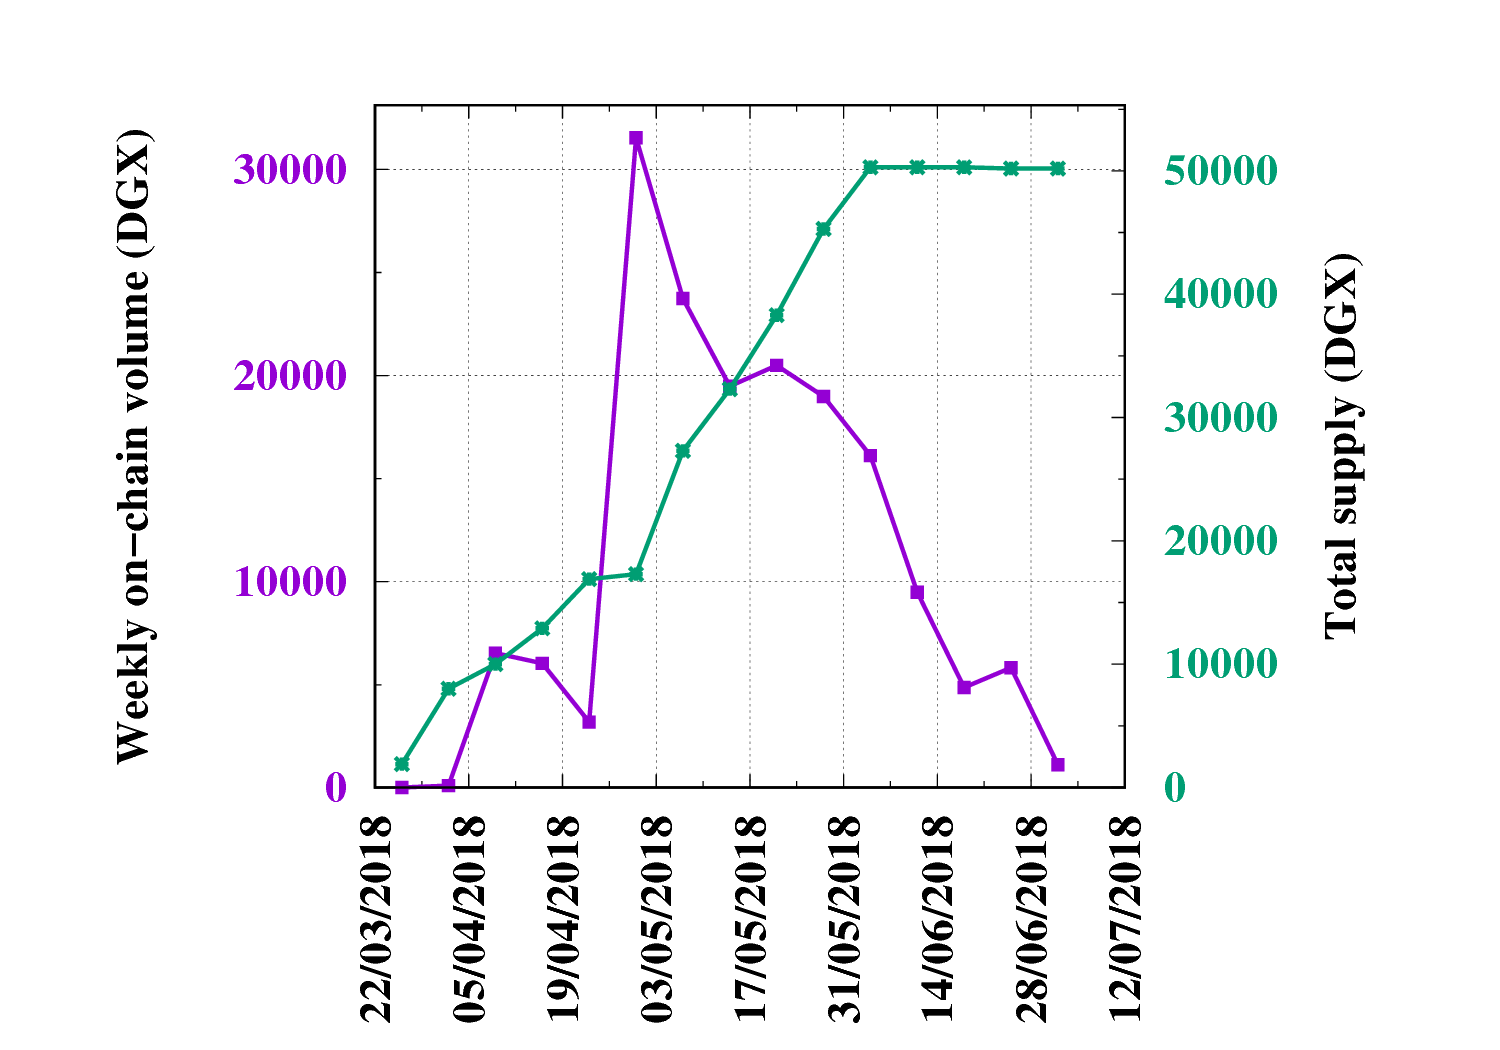
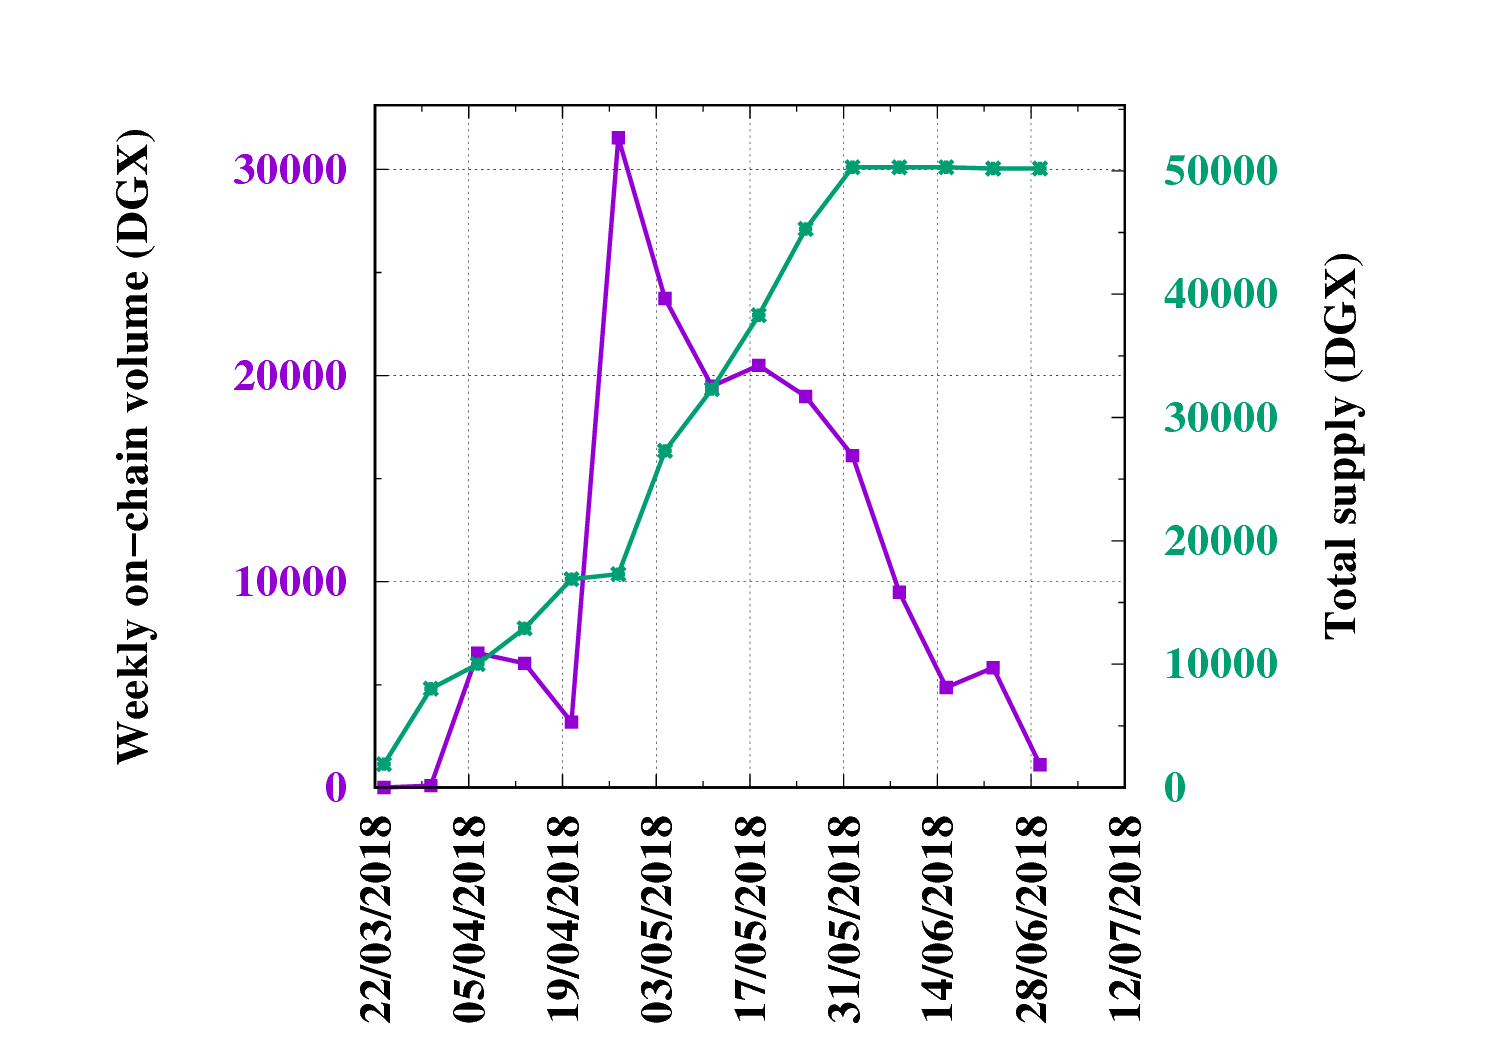
.

Changed region(s): [[0.2453, 0.1219, 0.552, 0.7619], [0.552, 0.3962, 0.7053, 0.7314], [0.5213, 0.1524, 0.7053, 0.2743]]

diff --git a/dgxvolume_scripts/weekly_volume.py b/dgxvolume_scripts/weekly_volume.py
@@ -18,10 +18,6 @@ length = len(amount)
 print("This page updates hourly using data from the [DGX contract address (etherscan)](https://etherscan.io/token/0x4f3afec4e5a3f2a6a1a411def7d7dfe50ee057bf). Last updated:")
 print(now.strftime("%Y-%m-%d %H:%M") + ' UTC\n')
 
-# Begin weekly table
-print("### Weekly volume table\n")
-print("Week Starting | Volume (DGX)")
-print("--- | ---")
 
 # loop over whole list of txs
 hour = 3600
@@ -30,9 +26,19 @@ week = 7*day
 quarter = 90*day
 
 # seconds from beginning
-d0 = datetime.datetime(2018, 3, 26, 0, 0)
+d0 = datetime.datetime(2018, 3, 23, 8, 58)
 delta = now - d0
 ts_now = delta.total_seconds()
+t0 = amount[0]['timeStamp']  # time (s) of first tx 
+tlast = amount[length-1]['timeStamp']  # time (s) of first tx 
+a = int(ts_now) - (int(tlast) - int(t0))
+with open('tsince_lasttx.txt','w+') as f:
+  f.write(str(a))
+
+# Begin weekly table
+print("### Weekly volume table\n")
+print("Week Starting | Volume (DGX)")
+print("--- | ---")
 
 wv = 0
 tv = 0
@@ -41,40 +47,38 @@ mintv = 0
 t1 = 0
 cw = 0
 tstore1 = 0
-t0 = amount[0]['timeStamp']  # time (s) of first tx 
-with open('quarterly.dat','w+') as f2:
-  with open('weekly.dat','w+') as f:
-    for i in range(0,length):
-      x = int(amount[i]['value'])  # volume for ith tx
-      if amount[i]['from'] == '0x0000000000000000000000000000000000000000':  # if from 0x0 (minting)
-        mintv = mintv + x  # DGX minted 
-      elif amount[i]['to'] == '0x0000000000000000000000000000000000000000':  # if to 0x0 (recasting)
-        wv = wv - x  # these are recasting txs
-        mintv = mintv - x  
-        ts = amount[i]['timeStamp']  # read current timeStamp (s)
-        tc = int(ts) - int(t0)  # time (s) since first tx
-        t1 = tc - tstore1  # time (s) since last reset
-      else:
-        ts = amount[i]['timeStamp']  # read current timeStamp (s)
-        wv = wv + x  # accumulate tx amounts 
-        tv = tv + x  # accumulate tx amounts 
-        tc = int(ts) - int(t0)  # time (s) since first tx
-        t1 = tc - tstore1  # time (s) since last reset
-      if t1 >= week:
-        cw += 1 # count
-        y = round(float(wv)/1e9,2)
-        print(str(datew.strftime("%d/%m/%Y")) + "|" + str(y))
-        y2 = round(float(mintv)/1e9,2)
-        f.write(str(datew) + ' ' + str(y) + ' ' + str(y2) + '\n')  # write week number, volume to file
-        datew = datew + datetime.timedelta(days=7)
-        tstore1 = tc
-        t1 = 0
-        wv = 0
-    wv = round(float(wv)/1e9,2)
-    y2 = round(float(mintv)/1e9,2)
-    f.write(str(datew) + ' ' + str(wv) + ' ' + str(y2) + '\n')  # write week number, volume to file
-    print(str(datew.strftime("%d/%m/%Y")) + "|" + str(wv))
-    tv = round(float(tv)/1e9,2)
+with open('weekly.dat','w+') as f:
+  for i in range(0,length):
+    x = int(amount[i]['value'])  # volume for ith tx
+    if amount[i]['from'] == '0x0000000000000000000000000000000000000000':  # if from 0x0 (minting)
+      mintv = mintv + x  # DGX minted 
+    elif amount[i]['to'] == '0x0000000000000000000000000000000000000000':  # if to 0x0 (recasting)
+      wv = wv - x  # these are recasting txs
+      mintv = mintv - x  
+      ts = amount[i]['timeStamp']  # read current timeStamp (s)
+      tc = int(ts) - int(t0)  # time (s) since first tx
+      t1 = tc - tstore1  # time (s) since last reset
+    else:
+      ts = amount[i]['timeStamp']  # read current timeStamp (s)
+      wv = wv + x  # accumulate tx amounts 
+      tv = tv + x  # accumulate tx amounts 
+      tc = int(ts) - int(t0)  # time (s) since first tx
+      t1 = tc - tstore1  # time (s) since last reset
+    if t1 >= week:
+      cw += 1 # count
+      y = round(float(wv)/1e9,2)
+      print(str(datew.strftime("%d/%m/%Y")) + "|" + str(y))
+      y2 = round(float(mintv)/1e9,2)
+      f.write(str(datew) + ' ' + str(y) + ' ' + str(y2) + '\n')  # write week number, volume to file
+      datew = datew + datetime.timedelta(days=7)
+      tstore1 = tc
+      t1 = 0
+      wv = 0
+  wv = round(float(wv)/1e9,2)
+  y2 = round(float(mintv)/1e9,2)
+  f.write(str(datew) + ' ' + str(wv) + ' ' + str(y2) + '\n')  # write week number, volume to file
+  print(str(datew.strftime("%d/%m/%Y")) + "|" + str(wv))
+  tv = round(float(tv)/1e9,2)
 
 # All-time volume table
 #print("Current Quarter |" + str(dateq.strftime("%d/%m/%Y")) + "|" + str(qv) )

diff --git a/dgxvolume_scripts/weekly_volume_blocks.py b/dgxvolume_scripts/weekly_volume_blocks.py
@@ -24,7 +24,8 @@ print("Week Starting | Volume (DGX)")
 print("--- | ---")
 
 # loop over whole list of txs
-hour = 3600
+tblock = 14.4
+hour = 3600/tblock
 day  = 24*hour
 week = 7*day
 quarter = 90*day
@@ -38,10 +39,10 @@ wv = 0
 tv = 0
 datew = d0
 mintv = 0
-t1 = 0
+b1 = 0
 cw = 0
-tstore1 = 0
-t0 = amount[0]['timeStamp']  # time (s) of first tx 
+bstore1 = 0
+b0 = amount[0]['blockNumber']  # block number of first tx 
 with open('quarterly.dat','w+') as f2:
   with open('weekly.dat','w+') as f:
     for i in range(0,length):
@@ -51,24 +52,24 @@ with open('quarterly.dat','w+') as f2:
       elif amount[i]['to'] == '0x0000000000000000000000000000000000000000':  # if to 0x0 (recasting)
         wv = wv - x  # these are recasting txs
         mintv = mintv - x  
-        ts = amount[i]['timeStamp']  # read current timeStamp (s)
-        tc = int(ts) - int(t0)  # time (s) since first tx
-        t1 = tc - tstore1  # time (s) since last reset
+        bs = amount[i]['blockNumber']  # read current block number
+        bc = int(bs) - int(b0)  # blocks since first tx
+        b1 = bc - bstore1  # blocks since last reset
       else:
-        ts = amount[i]['timeStamp']  # read current timeStamp (s)
+        bs = amount[i]['blockNumber']  # read current block number
         wv = wv + x  # accumulate tx amounts 
         tv = tv + x  # accumulate tx amounts 
-        tc = int(ts) - int(t0)  # time (s) since first tx
-        t1 = tc - tstore1  # time (s) since last reset
-      if t1 >= week:
+        bc = int(bs) - int(b0)  # blocks since first tx
+        b1 = bc - bstore1  # blocks since last reset
+      if b1 >= week:
         cw += 1 # count
         y = round(float(wv)/1e9,2)
         print(str(datew.strftime("%d/%m/%Y")) + "|" + str(y))
         y2 = round(float(mintv)/1e9,2)
         f.write(str(datew) + ' ' + str(y) + ' ' + str(y2) + '\n')  # write week number, volume to file
         datew = datew + datetime.timedelta(days=7)
-        tstore1 = tc
-        t1 = 0
+        bstore1 = bc
+        b1 = 0
         wv = 0
     wv = round(float(wv)/1e9,2)
     y2 = round(float(mintv)/1e9,2)
